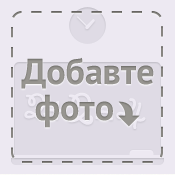
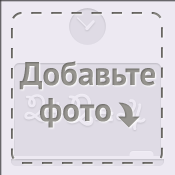
Добавлены картинки для аватара

diff --git a/templates/accounts/profile_edit_avatar.html b/templates/accounts/profile_edit_avatar.html
@@ -25,7 +25,7 @@
                             <img src="{{ user.profile.min_avatar.url }}" width="175" height="175" alt="Добавьте фото" />
                         {% else %}
                             {% if user.profile.type == 1 %}
-                                <img src="{{ STATIC_URL }}i/noava-b.jpg" width="175" height="175" alt="Добавьтете фото" />
+                                <img src="{{ STATIC_URL }}i/add-user-foto.png" width="175" height="175" alt="Добавьтете фото" />
                             {% endif %}
                             {% if user.profile.type == 2 %}
                                 <img src="{{ STATIC_URL }}i/add-school-foto.png" width="175" height="175" alt="Добавьте фото" />
